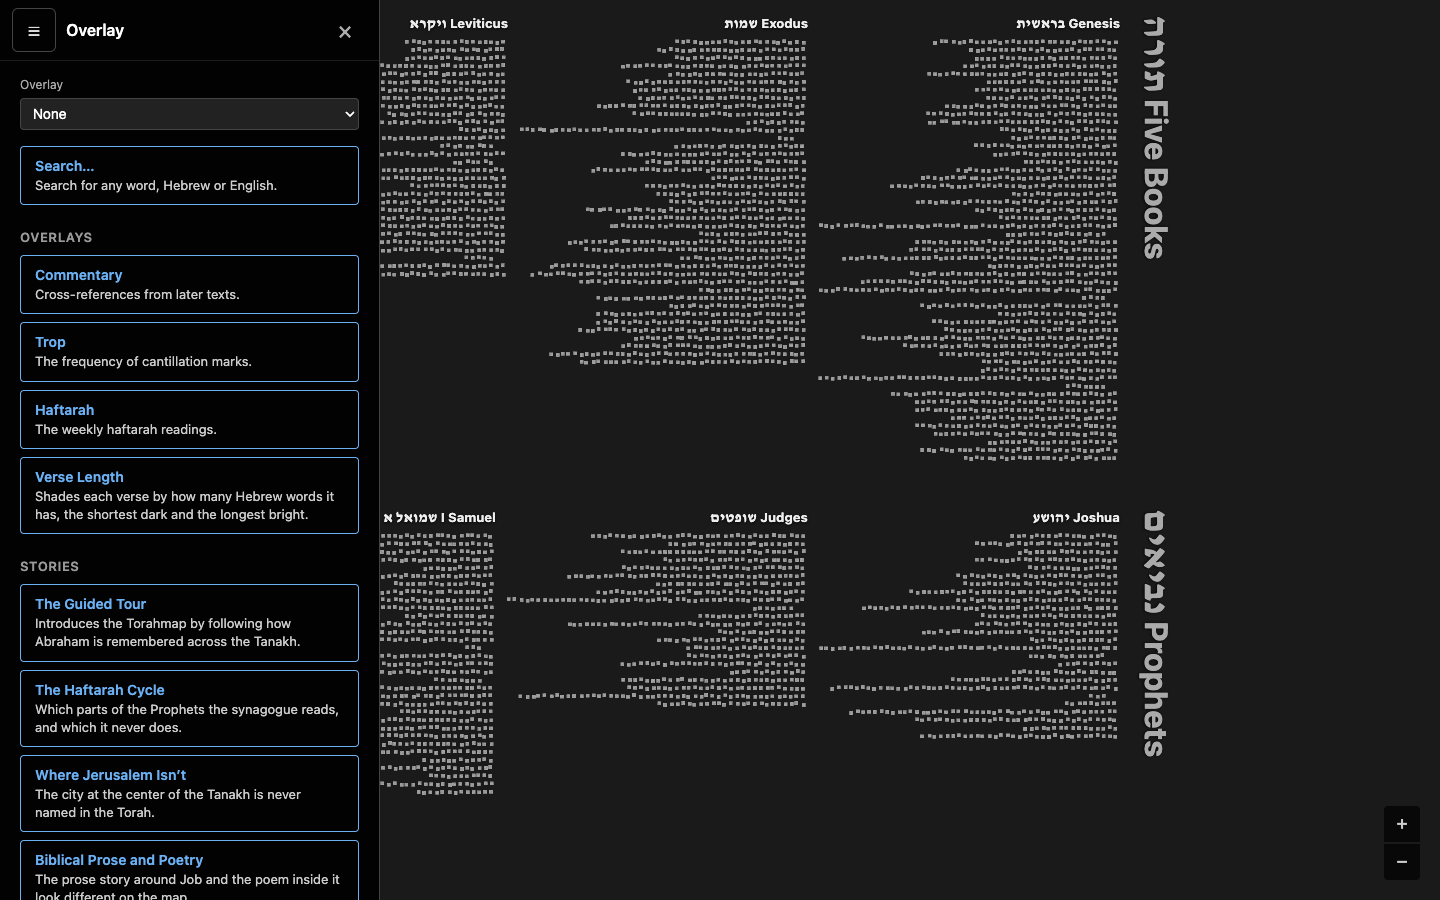
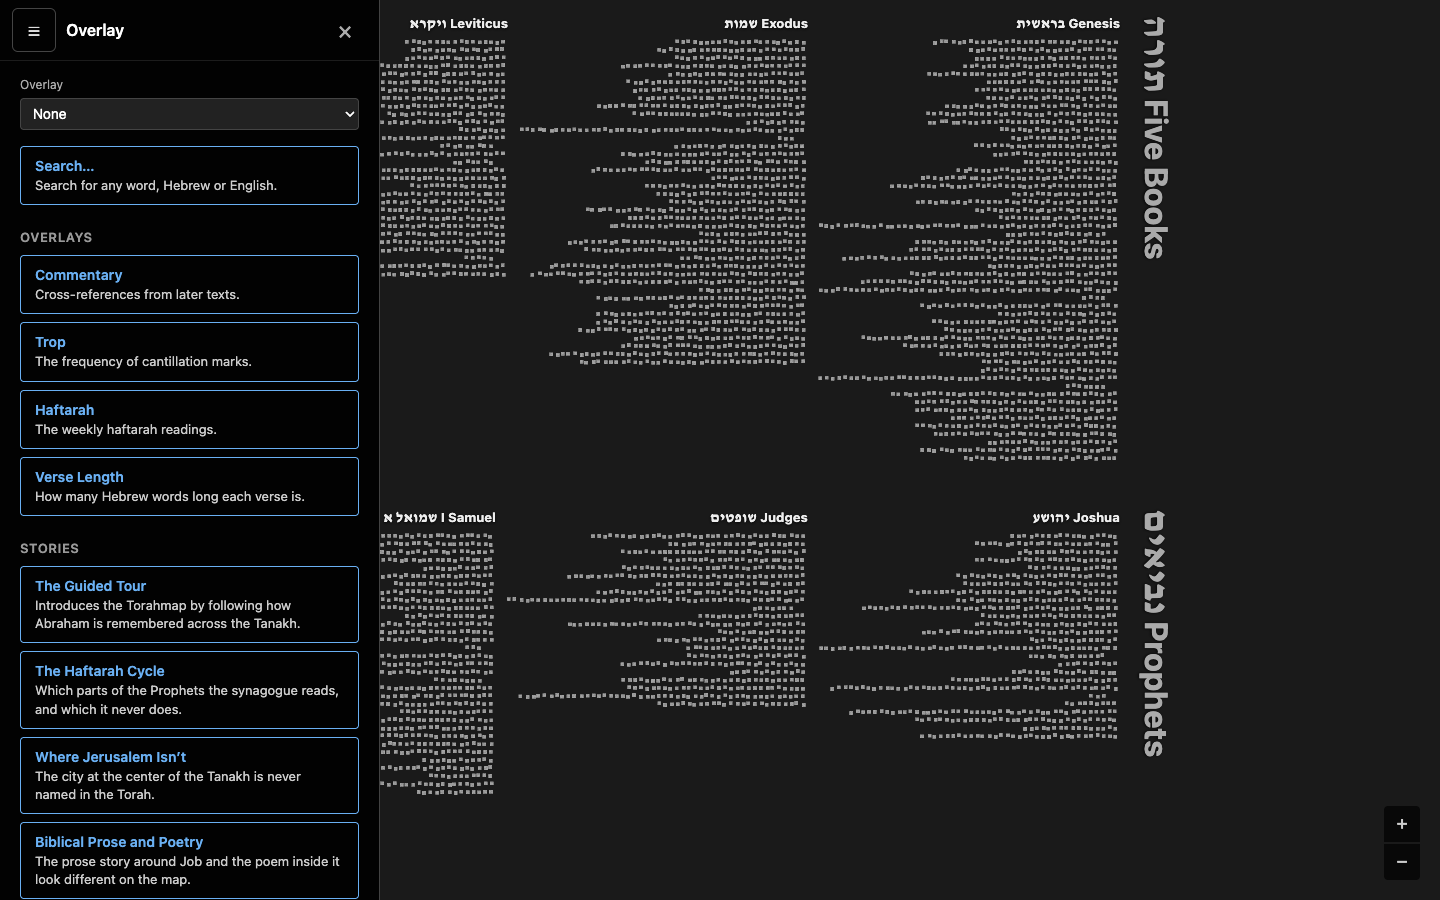
Verse Length's description opens with a short sentence too

Changed region(s): [[0.0, 0.5289, 0.25, 1.0]]

diff --git a/packages/overlay-catalog/src/index.ts b/packages/overlay-catalog/src/index.ts
@@ -58,9 +58,7 @@ export const HAFTARAH = {
 export const VERSE_LENGTH = {
   id: 'verse-length',
   name: 'Verse Length',
-  description:
-    'Shades each verse by how many Hebrew words it has, the shortest dark and the ' +
-    'longest bright.',
+  description: 'How many Hebrew words long each verse is. Brighter colors are longer verses.',
 } as const satisfies OverlayEntry;
 
 /** Every overlay the menu offers, in the order it offers them. */
